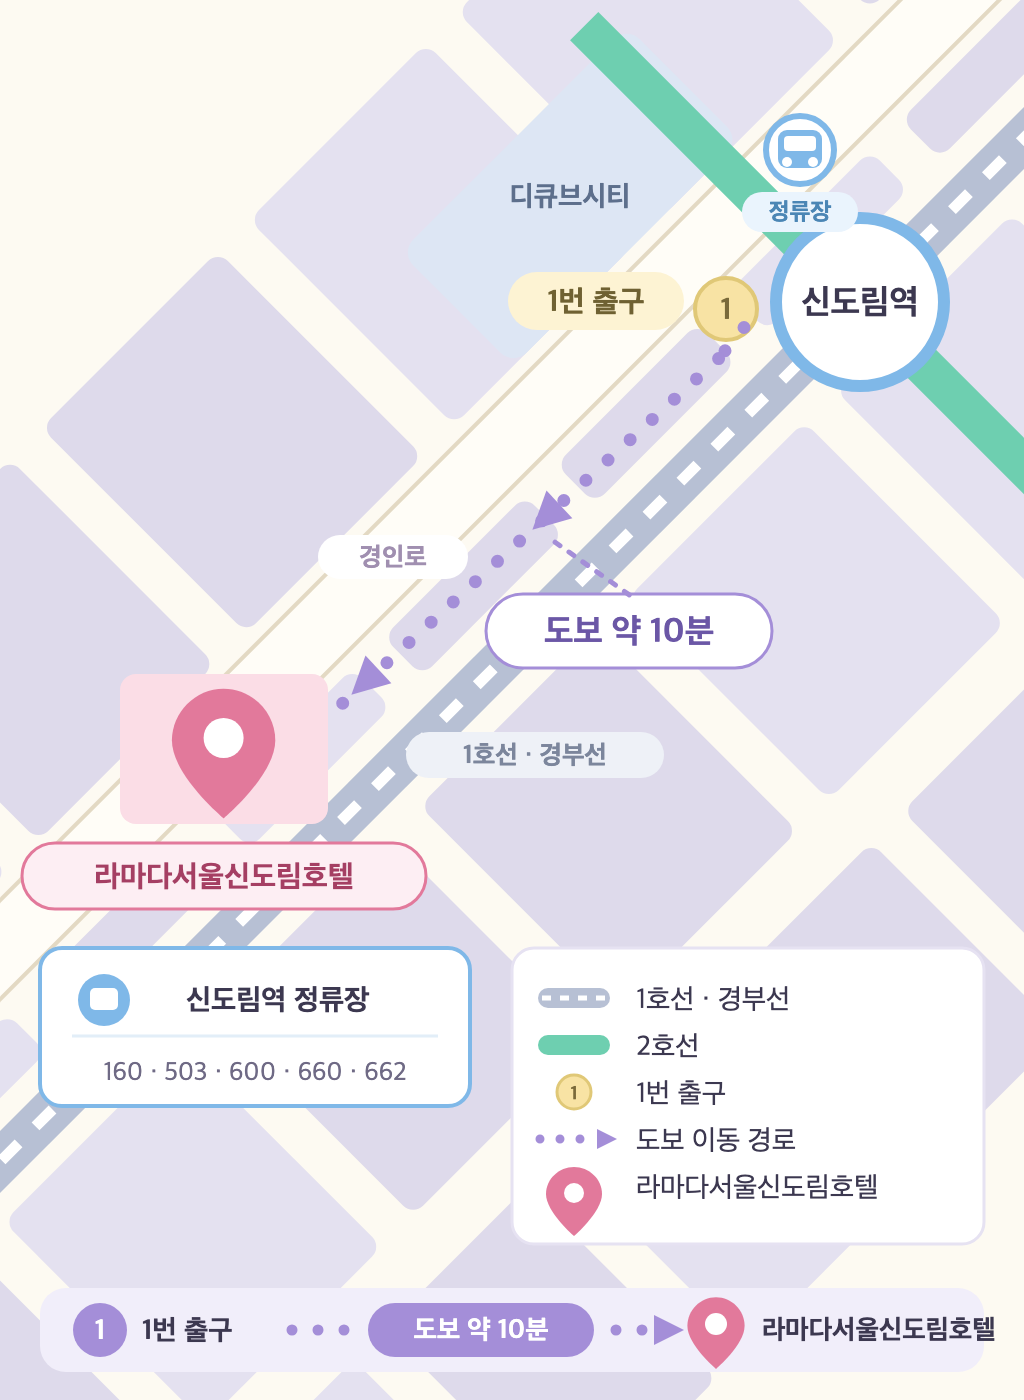
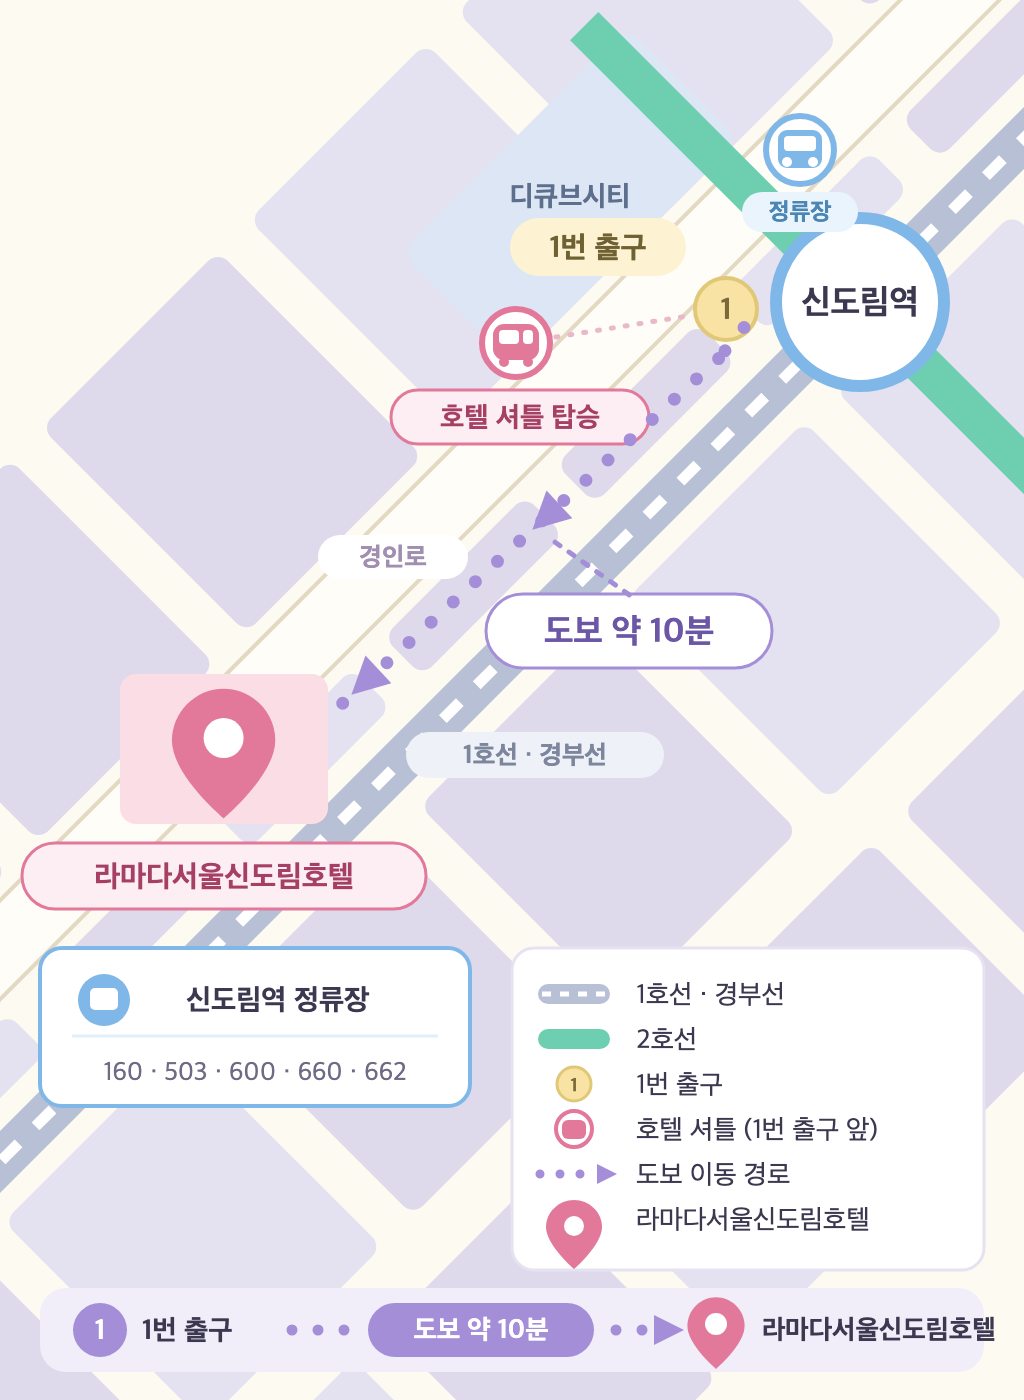
feat: 약도에 1번 출구 앞 호텔 셔틀 탑승 위치 표시
- 1번 출구 옆에 셔틀 아이콘과 '호텔 셔틀 탑승' 라벨 추가
- 범례에 셔틀 항목 추가하고 이미지 대체 텍스트에도 반영

Changed region(s): [[0.625, 0.7064, 0.875, 0.9214], [0.375, 0.1536, 0.6875, 0.3379], [0.5, 0.7064, 0.5938, 0.9214]]

diff --git a/index.html b/index.html
@@ -829,7 +829,7 @@ footer .names { font-size: 16px; color: var(--ink); margin-bottom: 6px; }
       <figure class="transit-guide">
         <img src="images/transit-guide.png" loading="lazy"
           tabindex="0" role="button" aria-label="대중교통 약도 크게 보기"
-          alt="신도림역 1번 출구에서 디큐브시티를 지나 경부선 철길을 따라 남서쪽으로 걸어 경인로변 라마다서울신도림호텔에 이르는 도보 약 10분 동선과 신도림역 버스 정류장 안내 약도" />
+          alt="신도림역 1번 출구에서 디큐브시티를 지나 경부선 철길을 따라 남서쪽으로 걸어 경인로변 라마다서울신도림호텔에 이르는 도보 약 10분 동선, 1번 출구 앞 호텔 셔틀 탑승 위치, 신도림역 버스 정류장 안내 약도" />
       </figure>
 
       <dl class="transport">

diff --git a/cherry.html b/cherry.html
@@ -967,7 +967,7 @@ footer { background: linear-gradient(135deg, #fdf0f6, #f8eef5); }
       <figure class="transit-guide">
         <img src="images/transit-guide.png" loading="lazy"
           tabindex="0" role="button" aria-label="대중교통 약도 크게 보기"
-          alt="신도림역 1번 출구에서 디큐브시티를 지나 경부선 철길을 따라 남서쪽으로 걸어 경인로변 라마다서울신도림호텔에 이르는 도보 약 10분 동선과 신도림역 버스 정류장 안내 약도" />
+          alt="신도림역 1번 출구에서 디큐브시티를 지나 경부선 철길을 따라 남서쪽으로 걸어 경인로변 라마다서울신도림호텔에 이르는 도보 약 10분 동선, 1번 출구 앞 호텔 셔틀 탑승 위치, 신도림역 버스 정류장 안내 약도" />
       </figure>
 
       <dl class="transport">

diff --git a/hydrangea.html b/hydrangea.html
@@ -967,7 +967,7 @@ footer { background: linear-gradient(135deg, #eff5fd, #eef1fb); }
       <figure class="transit-guide">
         <img src="images/transit-guide.png" loading="lazy"
           tabindex="0" role="button" aria-label="대중교통 약도 크게 보기"
-          alt="신도림역 1번 출구에서 디큐브시티를 지나 경부선 철길을 따라 남서쪽으로 걸어 경인로변 라마다서울신도림호텔에 이르는 도보 약 10분 동선과 신도림역 버스 정류장 안내 약도" />
+          alt="신도림역 1번 출구에서 디큐브시티를 지나 경부선 철길을 따라 남서쪽으로 걸어 경인로변 라마다서울신도림호텔에 이르는 도보 약 10분 동선, 1번 출구 앞 호텔 셔틀 탑승 위치, 신도림역 버스 정류장 안내 약도" />
       </figure>
 
       <dl class="transport">

diff --git a/lavender.html b/lavender.html
@@ -967,7 +967,7 @@ footer { background: linear-gradient(135deg, #f6f0fd, #f1eefb); }
       <figure class="transit-guide">
         <img src="images/transit-guide.png" loading="lazy"
           tabindex="0" role="button" aria-label="대중교통 약도 크게 보기"
-          alt="신도림역 1번 출구에서 디큐브시티를 지나 경부선 철길을 따라 남서쪽으로 걸어 경인로변 라마다서울신도림호텔에 이르는 도보 약 10분 동선과 신도림역 버스 정류장 안내 약도" />
+          alt="신도림역 1번 출구에서 디큐브시티를 지나 경부선 철길을 따라 남서쪽으로 걸어 경인로변 라마다서울신도림호텔에 이르는 도보 약 10분 동선, 1번 출구 앞 호텔 셔틀 탑승 위치, 신도림역 버스 정류장 안내 약도" />
       </figure>
 
       <dl class="transport">

diff --git a/summer.html b/summer.html
@@ -964,7 +964,7 @@ footer { background: linear-gradient(135deg, #e6f6fb, #e4f7f2); }
       <figure class="transit-guide">
         <img src="images/transit-guide.png" loading="lazy"
           tabindex="0" role="button" aria-label="대중교통 약도 크게 보기"
-          alt="신도림역 1번 출구에서 디큐브시티를 지나 경부선 철길을 따라 남서쪽으로 걸어 경인로변 라마다서울신도림호텔에 이르는 도보 약 10분 동선과 신도림역 버스 정류장 안내 약도" />
+          alt="신도림역 1번 출구에서 디큐브시티를 지나 경부선 철길을 따라 남서쪽으로 걸어 경인로변 라마다서울신도림호텔에 이르는 도보 약 10분 동선, 1번 출구 앞 호텔 셔틀 탑승 위치, 신도림역 버스 정류장 안내 약도" />
       </figure>
 
       <dl class="transport">
